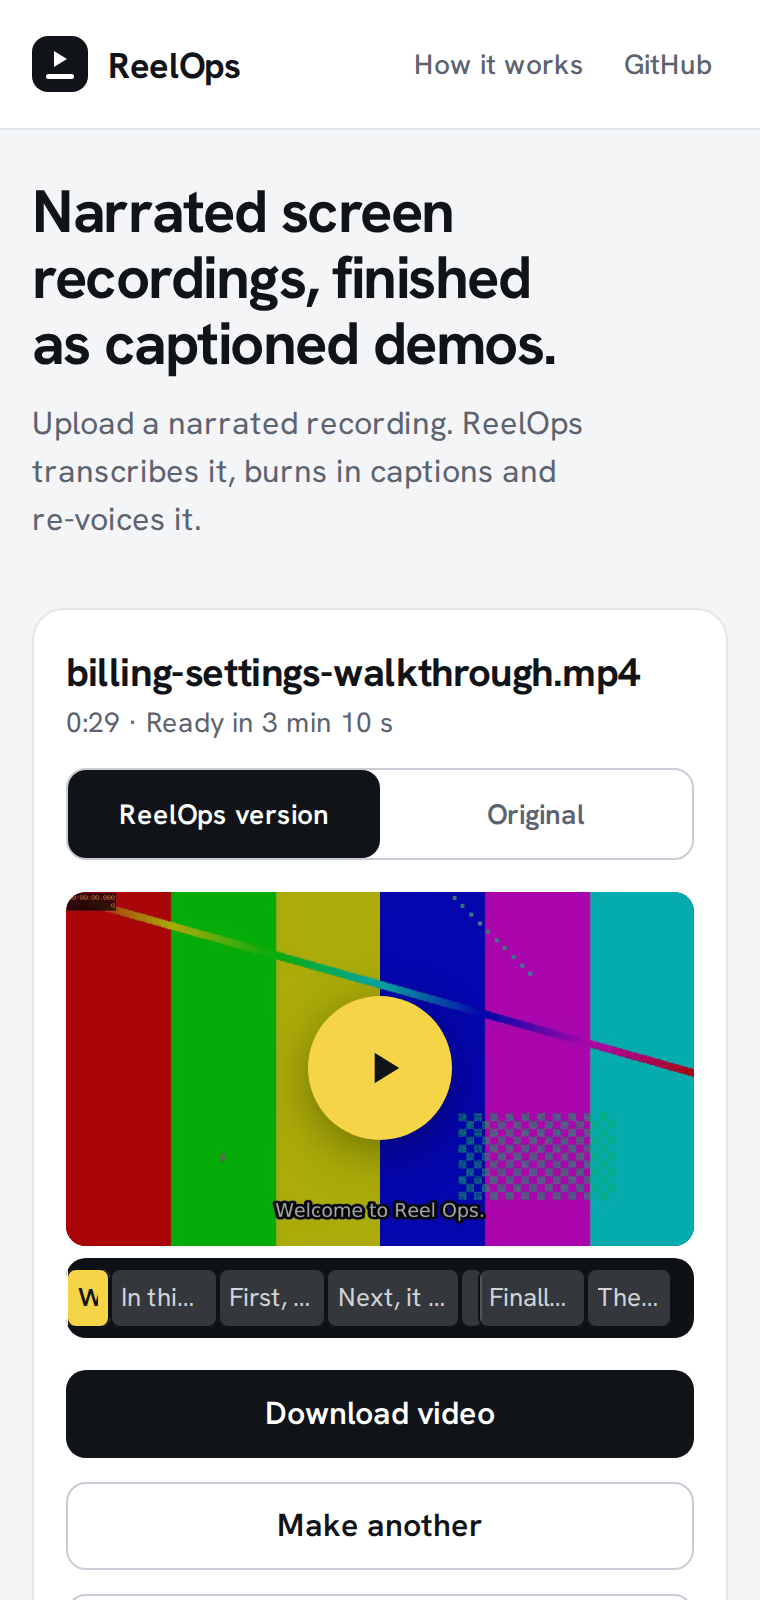
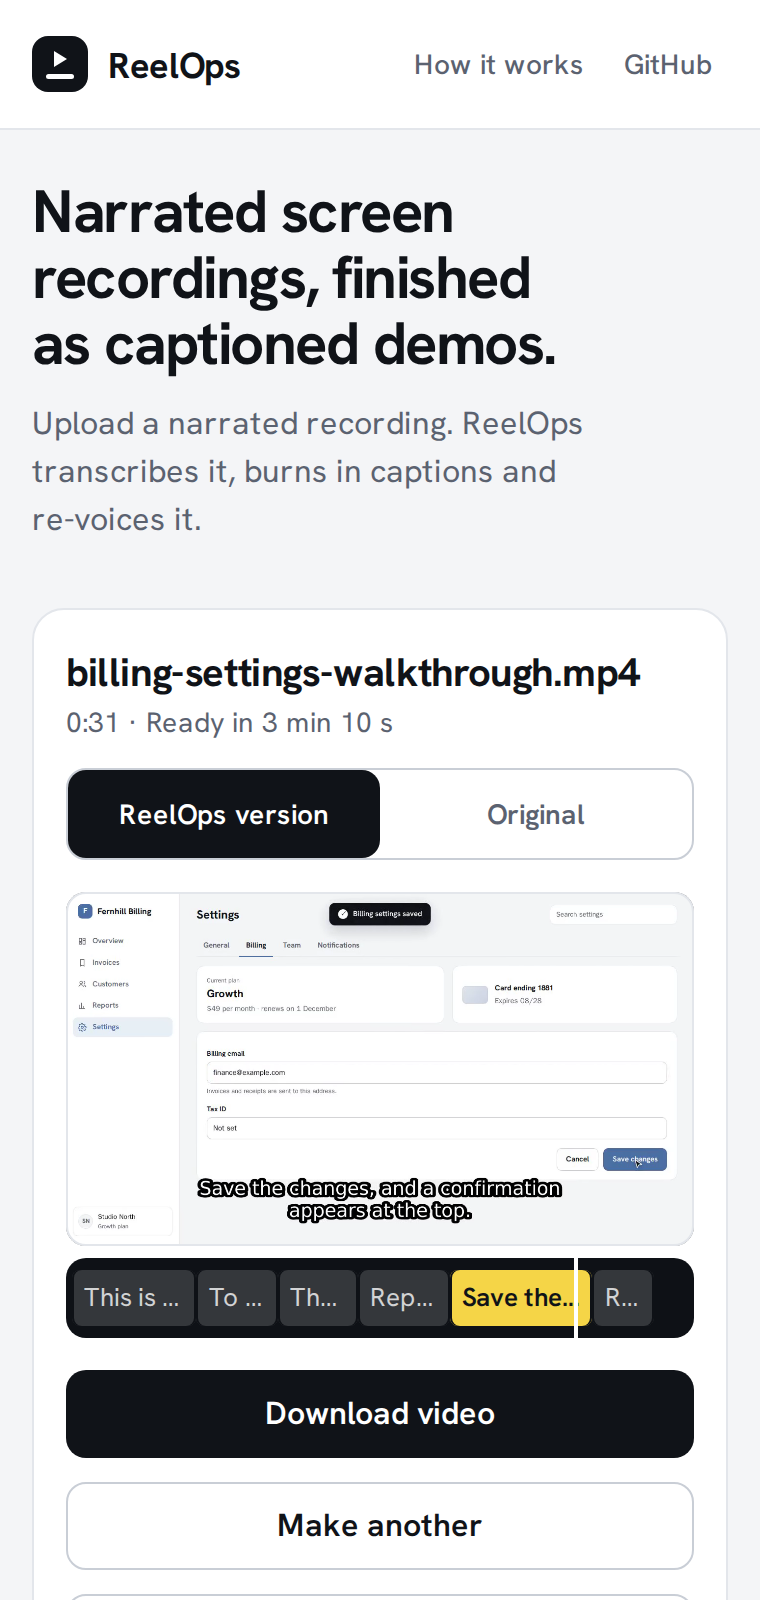
docs: realistic UI screenshots and notes on the fixture pipeline

Changed region(s): [[0.0605, 0.5312, 0.9382, 0.8438], [0.1211, 0.4375, 0.1513, 0.4688]]

diff --git a/docs/learning-notes.md b/docs/learning-notes.md
@@ -2616,3 +2616,54 @@ phone shot is ~5000 px tall and would swamp the row.
 2. *Why does seeking need HTTP Range support?* Browsers fetch media in byte
    ranges; without `Accept-Ranges`/206 responses the media isn't seekable, so
    setting `currentTime` goes nowhere (S3 supports ranges, a naive mock doesn't).
+
+### Step 3b — A realistic screenshot video
+
+**What we built:** `scripts/make_ui_fixture.sh` now produces the screenshot
+video from scratch: Playwright records a timed walkthrough of an invented app
+("Fernhill Billing", `scripts/ui-fixture/fernhill.html`) at 1280x720, Polly
+narrates each step, ffmpeg muxes a realistic screen recording, and the real
+worker pipeline turns it into the captioned, re-voiced output. Its real
+segments, duration and voice go to `fixture.json`, which the Playwright spec
+reads. Screenshots show a paused frame with native controls hidden. The worker
+gained an optional `REELOPS_WHISPER_HOTWORDS` setting (default: none).
+
+**Why this way:**
+- One timeline file (`walkthrough.json`) drives both the cursor actions and
+  the narration, so speech and screen can't drift apart; the script fails if
+  a sentence is longer than its slot.
+- Playwright's video has no pointer, so the page draws its own cursor and
+  click ripple; the cursor glides with easing instead of jumping.
+- The spec reads `fixture.json` instead of hard-coding captions, so a rebuilt
+  fixture can't silently disagree with the tests.
+- Northwind (the suggested name) is Microsoft's sample company, a real brand:
+  an invented name and example.com addresses instead.
+
+**Problems:**
+- Whisper `base` never writes "ReelOps": every phrasing tried came out as
+  "Reel Ops", "real ops" or "Reel-ops", so rephrasing couldn't fix it.
+  faster-whisper's `hotwords` hint does, so it's now a worker setting, off by
+  default (users' videos are unchanged) and set only for the fixture run.
+- The hint has side effects: with "ReelOps" it lower-cased "Studio North";
+  with "ReelOps, Studio North" Whisper merged sentences into captions that
+  broke mid-sentence. Kept the one-word hint and accepted the lower case.
+- Changing the first sentence (or lengthening pauses) also made Whisper merge
+  it with the next one: segmentation is the model's choice, not pause length.
+- A spoken invented name ("Fernhill") came out as "Furnill": it's shown on
+  screen, not spoken.
+- Downscaling the fixture to 960 px made the burned-in captions' word gaps
+  disappear; it's now encoded at its native 1280x720.
+- A light video on a white card had no edge: `outline` on the player, which
+  paints above the video (a border or inset shadow would sit under it).
+- The `steps` helper failed inside a process substitution and `set -e` didn't
+  stop the script; it now checks it actually read steps.
+
+**Interview questions:**
+1. *How do you get a speech-to-text model to spell a product name right?*
+   Give it a vocabulary hint (Whisper: `hotwords` / `initial_prompt`), and
+   test the side effects: hints can change casing and segmentation elsewhere,
+   so keep them short and opt-in.
+2. *Why generate test fixtures with a script instead of committing them?*
+   The script is the documentation: anyone can rebuild the media (here from
+   an invented app, so no personal data), changes are reviewable as code, and
+   large binaries stay out of git.

diff --git a/README.md b/README.md
@@ -30,8 +30,10 @@ straight to S3 with a presigned URL; the API only handles small JSON.
   <img src="docs/ui-processing.png" width="40%" alt="Desktop: a job processing, with the four-step progress row">
 </p>
 
-Screenshots come from Playwright against a mocked API (`frontend/e2e/`); the
-video is ReelOps' own output for the synthetic test-pattern sample.
+Screenshots come from Playwright against a mocked API (`frontend/e2e/`). The
+video is real ReelOps output: a scripted walkthrough of an invented billing app,
+narrated with Polly and run through the worker pipeline
+(`scripts/make_ui_fixture.sh`).
 
 ## Autoscaling
 
